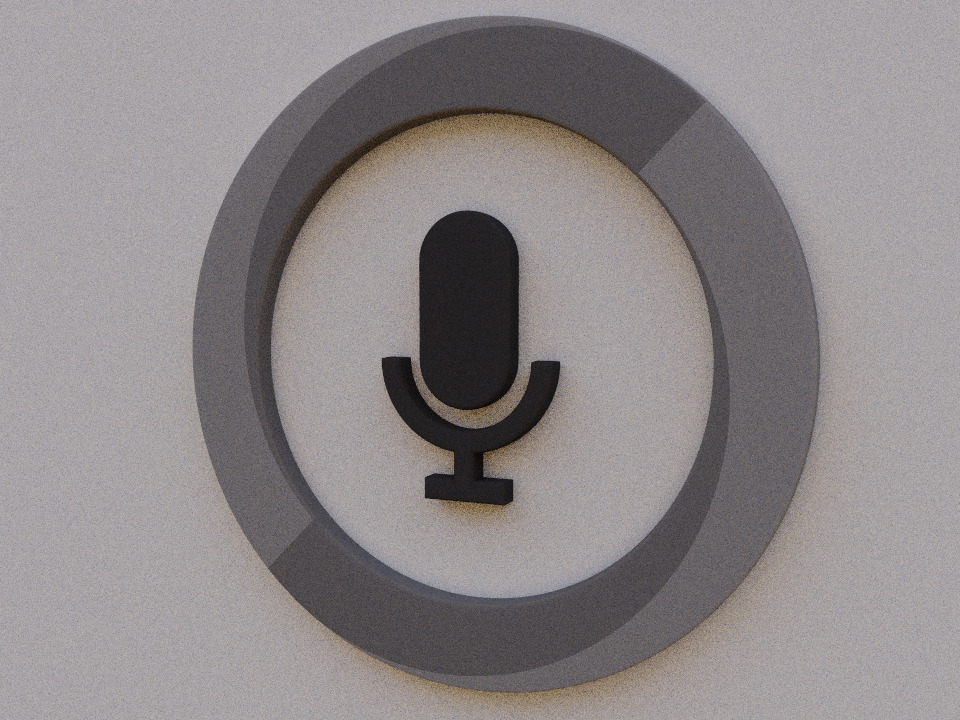
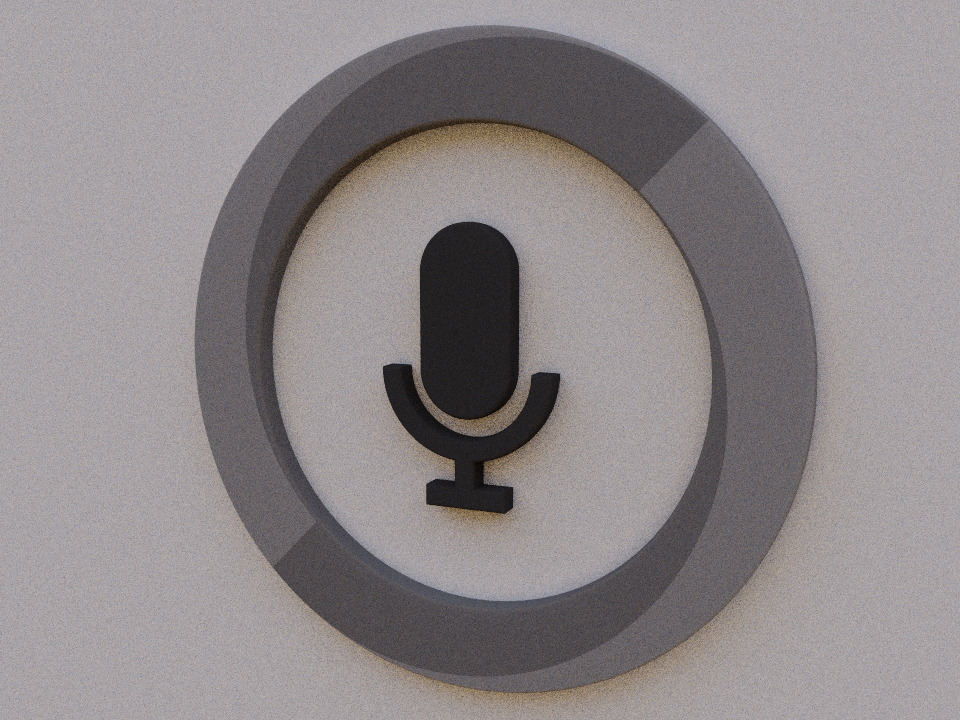
shorten

diff --git a/houndify.cpp b/houndify.cpp
@@ -4,17 +4,17 @@
 #define R return
 #define P ,putchar(c
 #define O(o)operator o(V r){R
-using F=float;F(*A)(F)=fabsf,E=.01;struct V{F O(%)x*r.x+y*r.y+z*r.z;}V O(+){x+r.
-x,y+r.y,z+r.z};}V O(*){x*r.x,y*r.y,z*r.z};}V(F a,F b,F c=0){x=a;y=b;z=c;}F x,z,y
-;V(F v=0){x=y=z=v;}}o;F I(F a,F b=0){R a<b?a:b;}F S(){R(F)rand()/RAND_MAX-.5;}F
-L(V v){R sqrtf(v%v);}V Z(V v){R v*(1/L(v));}V M(V p){V q=p;q.z=0;F l=L(q),g=A(l-
-53)-8.1,f=I(I(I(L({p.x,p.y+I(-I(p.y,18))})-9,-I(2-A(l-15),-p.y)),-I(2-A(p.x),5-A
-(p.y+20))),-I(8-A(p.x),2-A(p.y+24))),m=g<f?f=g,L(q+5.5*(p.x>p.y?:-1))<53.5?.2:.3
-:.07;f=L({I(f,-1)-f,I(-p.z-4)+p.z+4})-1;g=I(-p.z,p.z+250);R{I(g,f),g<f?.8f:m};}
-int main(){V b=Z({-6,-1,14}),l=Z({b.z,0,-b.x})*.001,u(b.y*l.z-b.z*l.y,b.z*l.x-b.
-x*l.z,b.x*l.y-b.y*l.x),c,d;puts("P6 960 720 255");for(F x,y=720,a,n,i,j;y--;)for
-(x=960;x--;o=c+1,c=V(c.x/o.x,c.y/o.y,c.z/o.z)*255 P.x)P.y)P.z))for(c=n=0;a=99>++
-n;c=c+(d.z<-.8?V(9,6,3):d.y>.3?V(3,4,6):0)*a*E)for(o={74,12,-170},d=Z(b+l*(S()-x
-+480)+u*(y-360+S())),i=4;--i;){V s=1,m;for(j=30;--j&&s.x>E;)s=M(o=o+d*s.x);if(o%
-o<3e4){a*=s.y;for(j=6;--j&&d%d>.5;)d={S(),S(),S()};m=Z(V(M(o+V(E,0)).x,M(o+V(0,E
-)).x,M(o+V(0,0,E)).x)+-s.x),d=Z(m%d<0?d*-1:d),o=o+m*E;}}}// Daniel Langner
+using F=float;F(*A)(F)=fabsf,E=.01,x,y=720,a,n,i,j;struct V{F O(%)x*r.x+y*r.y+z*
+r.z;}V O(+){x+r.x,y+r.y,z+r.z};}V O(*){x*r.x,y*r.y,z*r.z};}V(F a,F b,F c=0){x=a;
+y=b;z=c;}F x,z,y;V(F v=0){x=y=z=v;}}o;F I(F a,F b=0){R a<b?a:b;}F S(){R(F)rand()
+/RAND_MAX-.5;}F L(V v){R sqrtf(v%v);}V Z(V v){R v*(1/L(v));}V M(V p){V q=p;q.z=0
+;F l=L(q),g=A(l-53)-8.1,f=I(I(I(L({p.x,p.y+I(-I(p.y,18))})-9,-I(2-A(l-15),-p.y))
+,-I(2-A(p.x),5-A(p.y+20))),-I(8-A(p.x),2-A(p.y+24))),m=g<f?f=g,L(q+5.5*(p.x>p.y?
+:-1))<53.5?.2:.3:.07;f=L({I(f,-1)-f,I(-p.z-4)+p.z+4})-1;g=I(-p.z,p.z+250);R{I(g,
+f),g<f?.8f:m};}int main(){V b=Z({-3,-1,7}),l=Z({b.z,0,-b.x})*.001,u(b.y*l.z-b.z*
+l.y,b.z*l.x-b.x*l.z,b.x*l.y-b.y*l.x),c,d,m,s;for(puts("P6 960 720 255");y--;)for
+(x=960;x--;o=c+1,c=V(c.x/o.x,c.y/o.y,c.z/o.z)*255 P.x)P.y)P.z))for(c=n=0;a=99<++
+n;c=c+(d.z<-.8?V(9,6,3):d.y>.3?V(3,4,6):0)*a*E)for(o={74,26,-170},d=Z(b+l*(S()-x
++480)+u*(y-360+S())),i=4;--i;){for(s=1,j=30;--j&&s.x>E;)s=M(o=o+d*s.x);if(3e4>o%
+o){for(a*=s.y,j=6;--j&&d%d>.5;)d={S(),S(),S()};m=Z(V(M(o+V(E,0)).x,M(o+V(0,E)).x
+,M(o+V(0,0,E)).x)+-s.x),d=Z(m%d<0?d*-1:d),o=o+m*E;}}}// Daniel Langner
